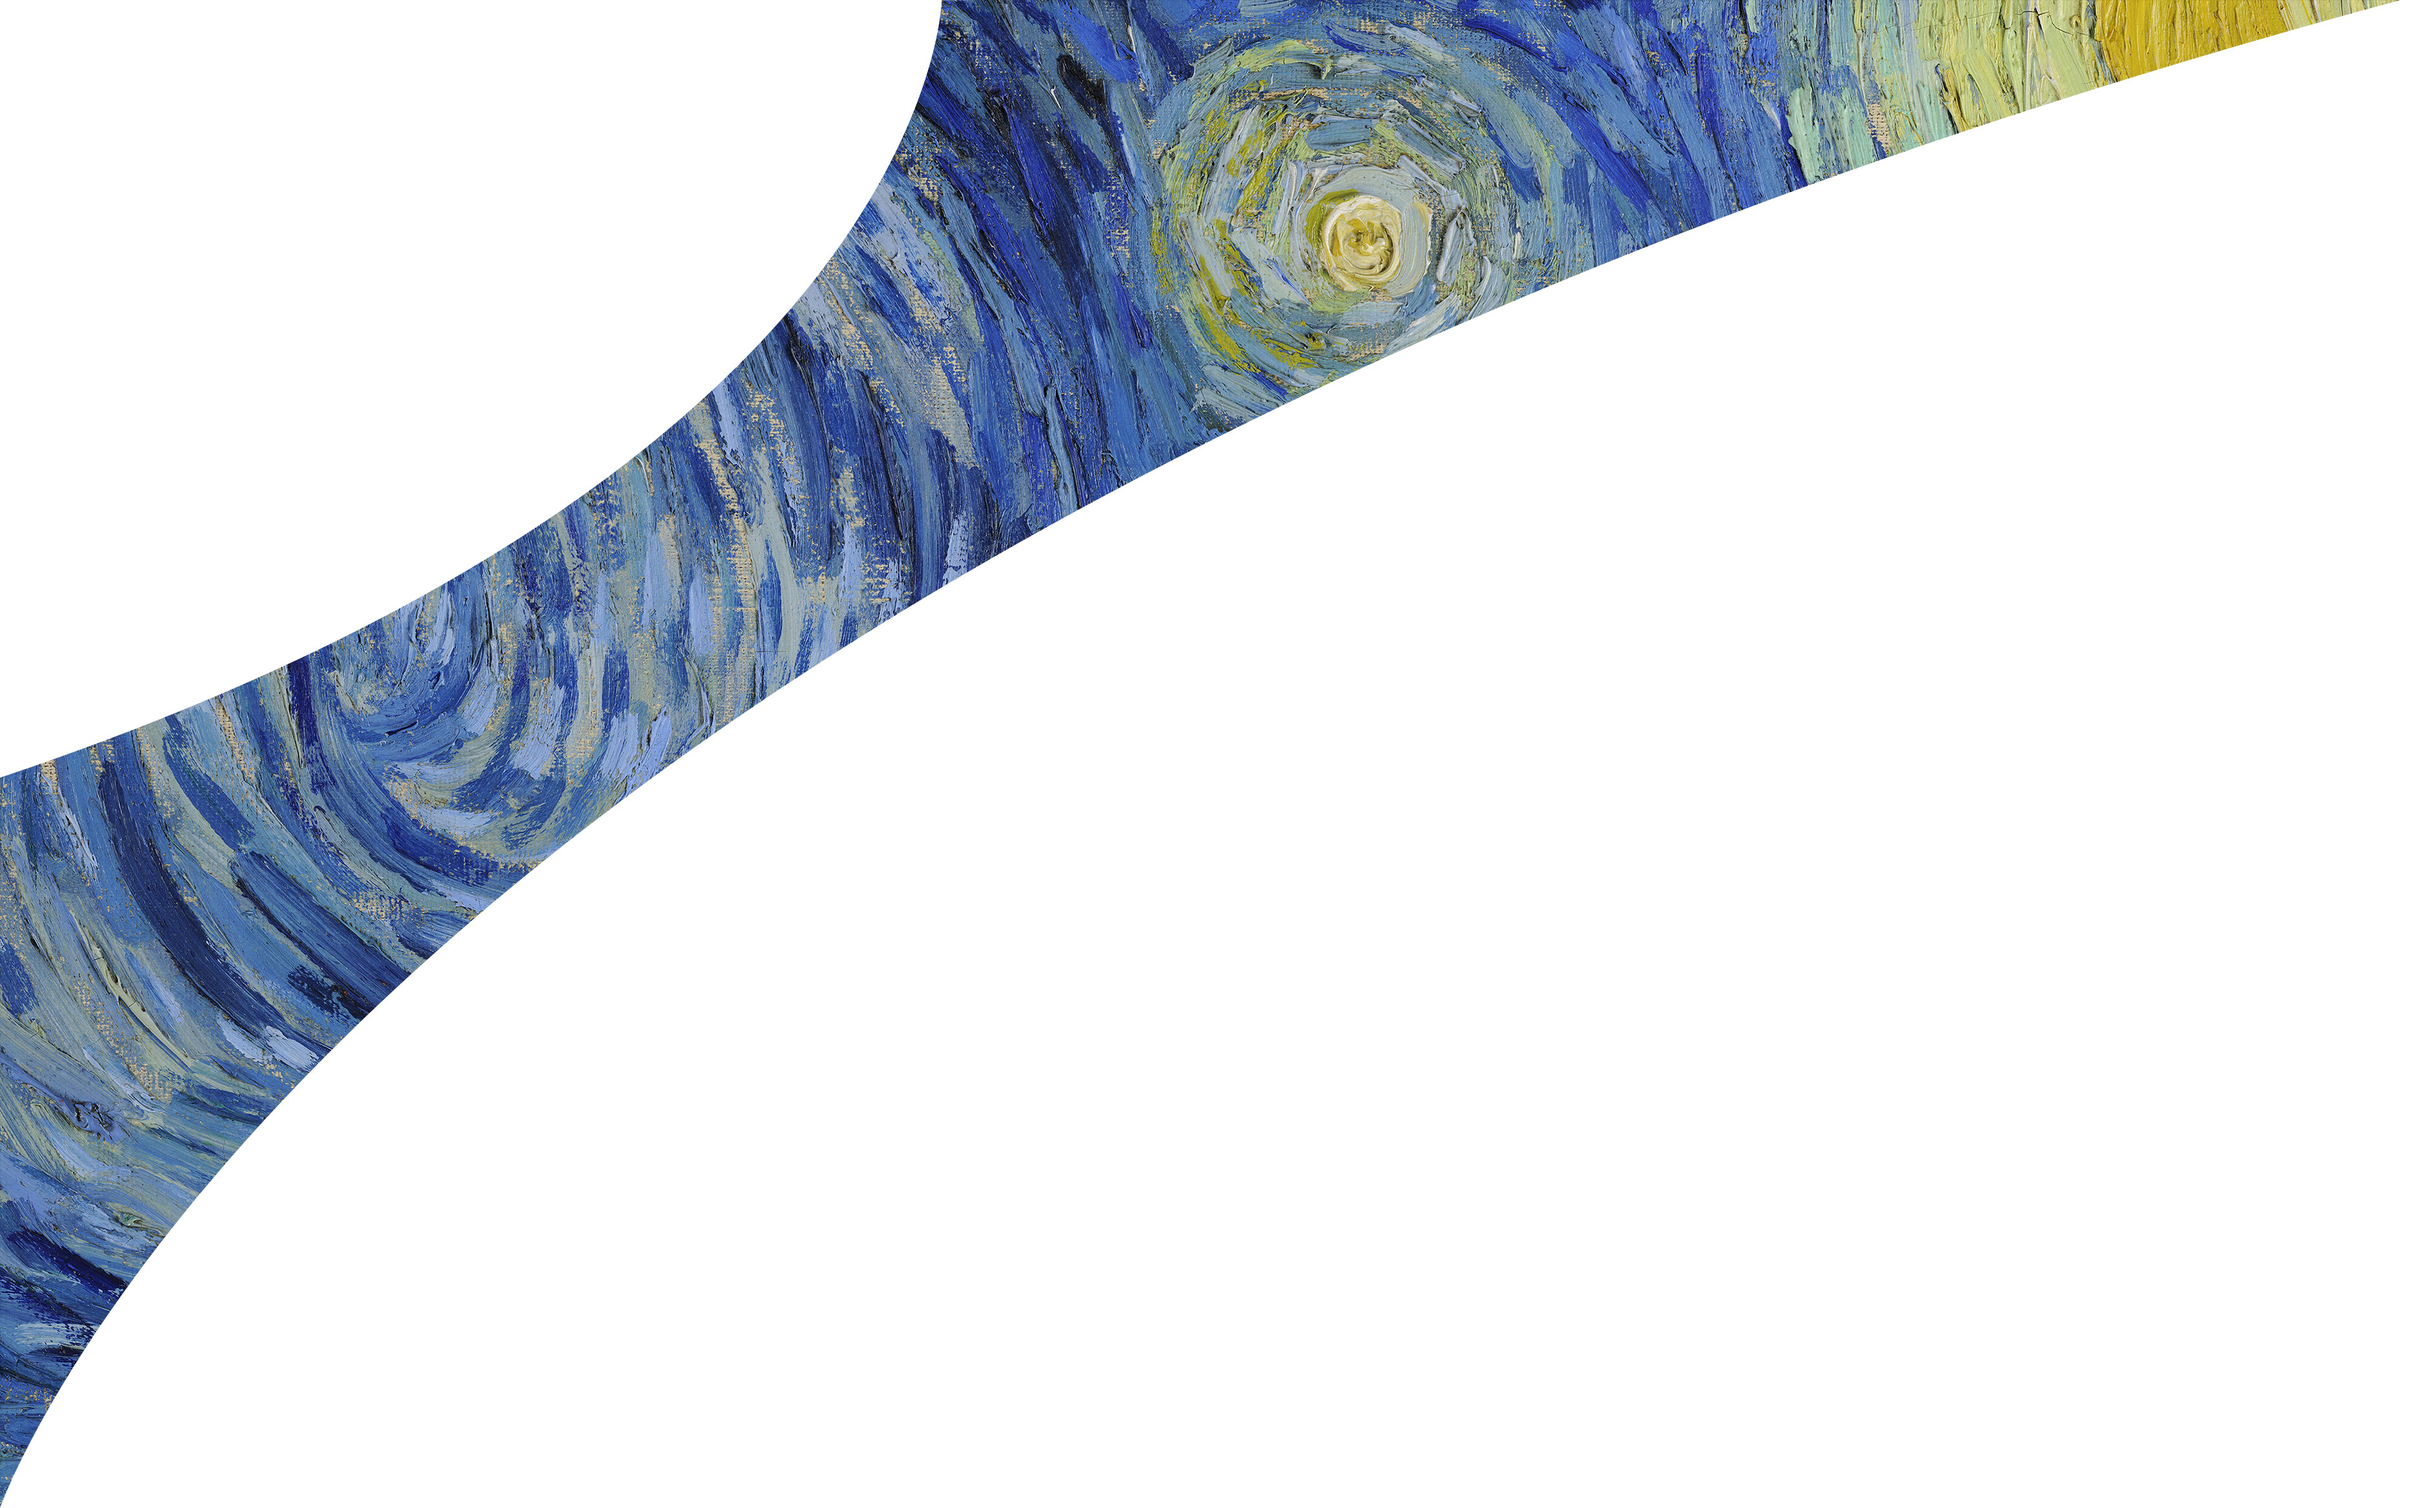
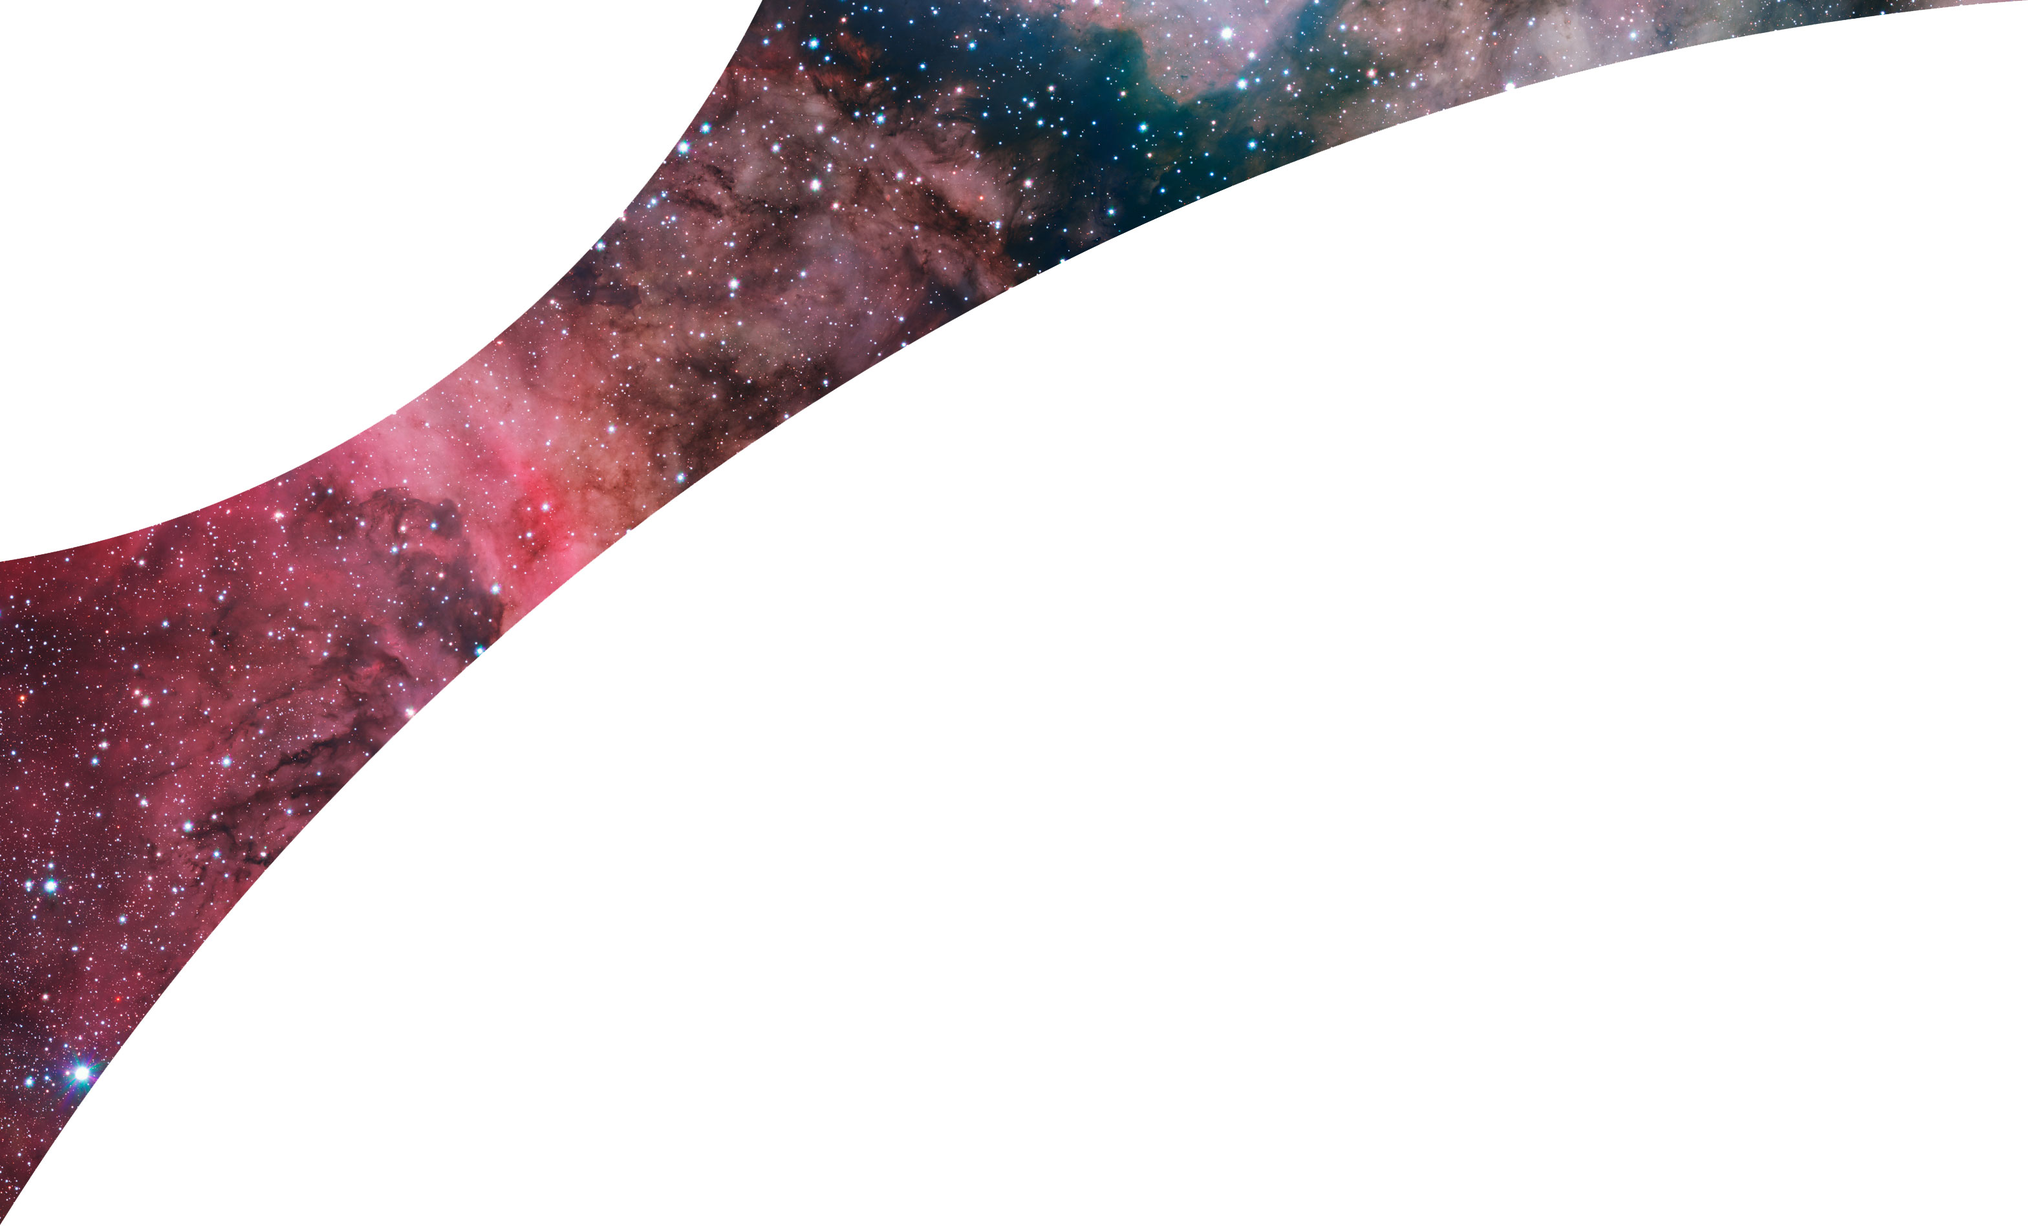
Commit 49
Change background image and display size on smaller screens. Tweak title
layout. Change title layout on smaller viewports. Animate changes in
title layout when resizing viewport. Change max-width of certain
viewports for responsive layouts. Add new responsive layout that adjusts
padding for medium size screens. Adjust small viewport trigger for
displaying audio progress in info popup. Adjust small viewport trigger
for aside on About page. Clean up CSS.

Changed region(s): [[0.0, 0.0, 1.0, 0.9958]]

diff --git a/css/global.css b/css/global.css
@@ -33,7 +33,7 @@ a {
     margin: auto;
     max-width: 1250px;
     overflow: hidden;
-    padding: 100px 100px 100px 100px; /*Change 3rd to 200px*/
+    padding: 100px 100px 100px 100px;
     transition: padding 0.28s cubic-bezier(0.4, 0, 0.2, 1);
 }
 .page-content-about {
@@ -232,7 +232,8 @@ a {
     margin: 0 20px;
     opacity: 0.75;
     text-transform: uppercase;
-    transition: opacity 0.28s cubic-bezier(0.4, 0, 0.2, 1);
+    transition: 0.28s cubic-bezier(0.4, 0, 0.2, 1);
+    transition-property: opacity, font-size;
 }
 .page-header-nav-link_current {
     opacity: 1;
@@ -251,7 +252,8 @@ a {
     height: 120px;
     margin: 100px 0;
     padding: 15px;
-    transition: margin 0.28s cubic-bezier(0.4, 0, 0.2, 1);
+    transition: 0.28s cubic-bezier(0.4, 0, 0.2, 1);
+    transition-property: height, margin;
 }
 .page-header-titlebox-logo {
     float: left;
@@ -266,22 +268,21 @@ a {
     height: 100%;
 }
 .page-header-titlebox-title {
-    float: left;
     height: 100%;
-    margin: 0 0 0 30px;
-    position: relative;
+    overflow: hidden;
+    padding: 0 0 0 30px;
     text-transform: uppercase;
 }
 .page-header-titlebox-title-heading {
     font-size: 3.75rem;
     font-weight: 400;
-    margin: 10px 0;
+    margin: 5px 0 0 0;
+    transition: font-size 0.28s cubic-bezier(0.4, 0, 0.2, 1);
 }
 .page-header-titlebox-title-subheading {
-    bottom: 0;
     font-weight: 400;
-    margin: 10px 0;
-    position: absolute;
+    margin: 0;
+    transition: font-size 0.28s cubic-bezier(0.4, 0, 0.2, 1);
 }
 
 .popup, .nspopup {
@@ -479,9 +480,7 @@ a {
     font-style: normal;
 }
 #spacer1 {
-    /*margin: 0 0 -100px 0;*/
     min-height: 100vh;
-    /*transition: margin 0.27s cubic-bezier(0.4, 0, 0.2, 1);*/
 }
 
 @media (min-width: 700px) and ((-webkit-min-device-pixel-ratio: 2), (min-resolution: 192dpi), (min-resolution: 2dppx)) { 
@@ -492,6 +491,18 @@ a {
 @media (max-width: 700px) and ((-webkit-min-device-pixel-ratio: 2), (min-resolution: 192dpi), (min-resolution: 2dppx)) {
     body {
         background-image: url('../img/background/background-small-3x.jpg');
+    }
+}
+@media (max-width: 350px) {
+    body .page .page-header .page-header-titlebox {
+        height: 40px;
+    }
+    body .page .page-header .page-header-titlebox-title-heading {
+        font-size: 26px;
+        margin: 4px 0 0 0;
+    }
+    body .page .page-header .page-header-titlebox-title-subheading {
+        display: none;
     }
 }
 @media (max-width: 400px) {
@@ -505,7 +516,18 @@ a {
         right: 0;
     }
 }
-@media (max-width: 460px) {
+@media (max-width: 450px) {
+    .page .page-header .page-header-titlebox {
+        height: 50px;
+    }
+    .page .page-header .page-header-titlebox-title-heading {
+        font-size: 28px;
+    }
+    .page .page-header .page-header-titlebox-title-subheading {
+        font-size: 15px;
+        margin: -6px 0 0 0;
+    }
+
     .popup-content-body {
         padding: 15px;
     }
@@ -514,6 +536,18 @@ a {
     }
 }
 @media (max-width: 500px) {
+    .page .page-header-titlebox {
+        height: 60px;
+    }
+    .page .page-header-titlebox-title-heading {
+        font-size: 32px;
+        margin: 0;
+    }
+    .page .page-header-titlebox-title-subheading {
+        font-size: 18px;
+        margin: -6px 0 0 0;
+    }
+
     .popup-content-header-toolbar-progress {
          text-align: center;
     }
@@ -525,6 +559,9 @@ a {
     }
 }
 @media (max-width: 550px) {
+    .page-header-nav {
+        padding: 0;
+    }
     .page-header-nav-link {
         font-size: 1rem;
         margin: 10px;
@@ -535,20 +572,7 @@ a {
         padding: 15px;
     }
 }
-@media (max-width: 700px) {
-    body {
-        background-image: url('../img/background/background-small.jpg');
-        background-size: 100%;
-    }
-    
-    .popup {
-        padding: 0;
-    }
-    .popup-content {
-        min-height: 100%;
-    }
-}
-@media (max-width: 850px) {
+@media (max-width: 650px) {
     .page-content-aside {
         border: none;
         float: none;
@@ -560,33 +584,60 @@ a {
         padding: 15px;
     }
 }
-@media (max-width: 900px) {
-    .page-content {
-        padding: 50px 5px 100px 5px;
+@media (max-width: 700px) {
+    body {
+        background-image: url('../img/background/background-small.jpg');
     }
-    .page-content-grid-item {
-        flex-shrink: 1 !important;
-    }
-    .page-header {
-        padding: 0;
-    }
+
     .page-header-titlebox {
-        height: auto;
-        margin: 0;
-        text-align: center;
-    }
-    .page-header-titlebox-logo, .page-header-titlebox-title {
-        float: none;
+        height: 80px;
     }
     .page-header-titlebox-title {
-        margin: 0;
+        padding: 0 0 0 15px;
+    }
+    .page-header-titlebox-title-heading {
+        font-size: 40px;
+        margin: 3px 0 0 0;
     }
     .page-header-titlebox-title-subheading {
-        position: static;
+        font-size: 20px;
+        margin: -5px 0 0 0;
     }
     
-    #spacer1 {
+    .popup {
+        padding: 0;
+    }
+    .popup-content {
+        min-height: 100%;
+    }
+}
+@media (max-width: 1000px) {
+    .page .page-content {
+        padding: 50px 5px 100px 5px;
+    }
+    .page .page-content-grid-item {
+        flex-shrink: 1 !important;
+    }
+    .page .page-header {
+        padding: 0;
+    }
+    .page .page-header-titlebox {
         margin: 0;
+    }
+}
+@media (max-width: 1250px) {
+    body {
+        background-size: 100%;
+    }
+
+    .page-content {
+        padding: 50px 50px 100px 50px;
+    }
+    .page-header {
+        padding: 50px 50px 0 50px;
+    }
+    .page-header-titlebox {
+        margin: 0 0 50px 0;
     }
 }
 
